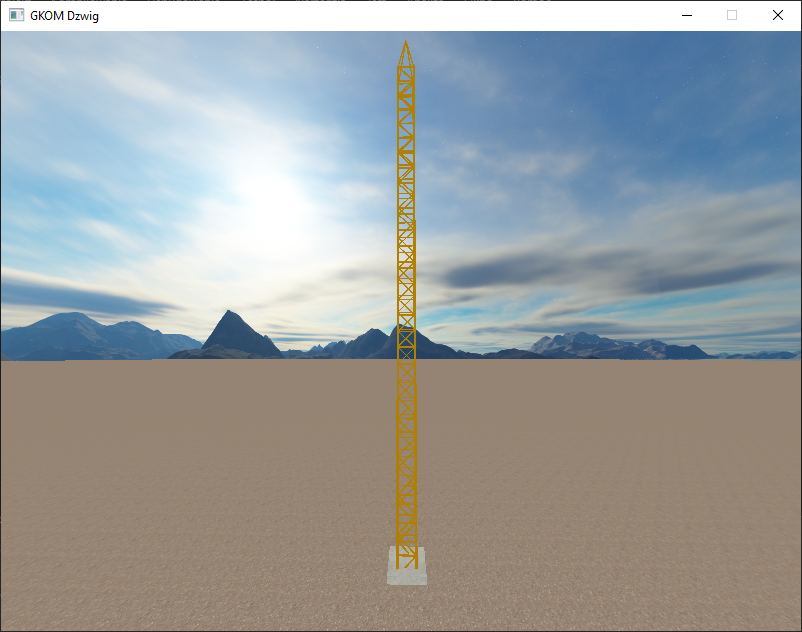
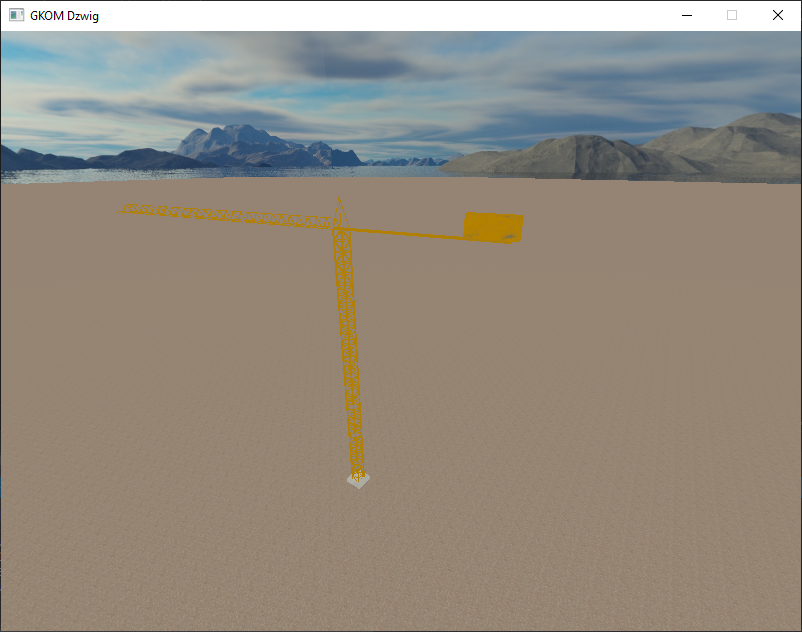
Model cd.

diff --git a/Dzwig/CraneTop.cpp b/Dzwig/CraneTop.cpp
@@ -1,0 +1,81 @@
+#include "CraneTop.h"
+
+CraneTop::CraneTop(std::string textureFileName)
+{
+	segment.setTexture(textureFileName);
+
+	glGenVertexArrays(1, &VAO);
+	glGenBuffers(1, &VBO);
+	glBindVertexArray(VAO);
+	glBindBuffer(GL_ARRAY_BUFFER, VBO);
+	glBufferData(
+		GL_ARRAY_BUFFER,
+		segment.getVertexTextureArraySize() * sizeof(GLfloat),
+		segment.getVertexTextureArrayPointer(),
+		GL_STATIC_DRAW);
+
+	// position
+	glVertexAttribPointer(0, 3, GL_FLOAT, GL_FALSE, 5 * sizeof(GLfloat), (void*)0);
+	glEnableVertexAttribArray(0);
+	// texture
+	glVertexAttribPointer(1, 2, GL_FLOAT, GL_FALSE, 5 * sizeof(GLfloat), (void*)(3 * sizeof(float)));
+	glEnableVertexAttribArray(1);
+
+	glBindVertexArray(0);
+
+
+	segment.setAll(-length, posy, -width/2, length + width/2, segmentScale, segmentScale);
+	segmentTrans.push_back(segment.getModelMatrix());
+	segment.setAll(-length , posy, width / 2, length + width / 2, segmentScale, segmentScale);
+	segmentTrans.push_back(segment.getModelMatrix());
+	segment.setAll(-length, posy+width*glm::sqrt(3)/2, 0, length - width / 2, segmentScale, segmentScale);
+	segmentTrans.push_back(segment.getModelMatrix());
+
+	for (int i = 0; i < 1 + 2*length / width; ++i)
+	{
+		segment.setAll(-width/2 - i*width, posy, 0, segmentScale, segmentScale, width/2);
+		segmentTrans.push_back(segment.getModelMatrix());
+	}
+
+	for (int i = 0; i < 2 * length / width; ++i)
+	{
+		segment.setAll(-width / 2 - i * width, posy+ width*sqrt(3)/4, width/4, segmentScale, segmentScale, width / 2,1,0,0,60);
+		segmentTrans.push_back(segment.getModelMatrix());
+	}
+	for (int i = 0; i < 2 * length / width; ++i)
+	{
+		segment.setAll(-width / 2 - i * width, posy + width * sqrt(3) / 4, -width / 4, segmentScale, segmentScale, width / 2, 1, 0, 0, 120);
+		segmentTrans.push_back(segment.getModelMatrix());
+	}
+
+	segment.setAll(length/2 - width/2, posy, 0, length/2, segmentScale, width/2);
+	segmentTrans.push_back(segment.getModelMatrix());
+
+	//segment.setAll( - 2 * length/width, posy, width / 4, width*sqrt(3)/2, segmentScale, segmentScale, 0, 1, 0, 30);
+	segment.setAll(-2 * length / width, posy, width / 2, width*sqrt(3) / 4, segmentScale, segmentScale,0,1,0,30);
+	//segment.setRotation2(0, 0, 1, 30);
+	segmentTrans.push_back(segment.getModelMatrix());
+
+	segment.setAll(length-width*2, posy+width, 0, 2 * width, width*sqrt(3)/2, width / 2);
+	segmentTrans.push_back(segment.getModelMatrix());
+}
+
+void CraneTop::draw(ShaderProgram * s, Camera * c, GLuint w, GLuint h)
+{
+	glm::mat4 trans;
+	glm::mat4 view = c->getWorldToViewMatrix();
+	glm::mat4 projection = glm::perspective(glm::radians(c->getFOV()), w*1.0f / h, 0.1f, 1000.0f);
+
+	glBindVertexArray(VAO);
+	glActiveTexture(GL_TEXTURE0);
+	glBindTexture(GL_TEXTURE_2D, segment.getTexture().getTextureID());
+
+	for (int i = 0; i < segmentTrans.size(); ++i)
+	{
+		trans = projection * view * glm::rotate(glm::mat4(1.0f), (GLfloat)glfwGetTime(), glm::vec3(0, 1, 0)) * segmentTrans[i];
+		glUniformMatrix4fv(glGetUniformLocation(s->get_programID(), "transform"), 1, GL_FALSE, &trans[0][0]);
+		glDrawArrays(GL_TRIANGLES, 0, 36);
+	}
+}
+
+

diff --git a/Dzwig/CraneTop.h b/Dzwig/CraneTop.h
@@ -1,0 +1,33 @@
+#pragma once
+#include "Cuboid.h"
+#include <GL/glew.h>
+#include "ShaderProgram.h"
+#include <GLFW/glfw3.h>
+#include <SOIL.h>
+#include <iostream>
+#include <string>
+using namespace std;
+#include <glm/glm.hpp>
+#include <glm/gtc/matrix_transform.hpp>
+#include <glm/gtc/type_ptr.hpp>
+#include "Window.h"
+#include "Camera.h"
+
+class CraneTop
+{
+	Cuboid segment;
+	GLuint VAO, VBO;
+	std::vector<glm::mat4> segmentTrans;
+
+	GLfloat length = 15.0f;
+	GLfloat posy = 30.0f;
+	GLfloat width = 1.0f;
+	GLfloat segmentScale = 0.03f;
+
+public:
+
+	CraneTop(std::string textureFileName);
+
+	void draw(ShaderProgram* s, Camera* c, GLuint w, GLuint h);
+};
+

diff --git a/Dzwig/Window.cpp b/Dzwig/Window.cpp
@@ -14,6 +14,7 @@
 #include "Cuboid.h"
 #include "CraneTower.h"
 #include "CraneBase.h"
+#include "CraneTop.h"
 
 using namespace std;
 
@@ -197,6 +198,7 @@ int Window::mainLoop()
 		unsigned int lightVAO;
 		CraneTower tower("metal.png");
 		CraneBase base(1.5f,.2f,"concrete.jpg");
+		CraneTop top("metal.png");
 
 
 		glGenVertexArrays(1, &lightVAO);
@@ -262,6 +264,7 @@ int Window::mainLoop()
 
 			tower.draw(&shaderProgram, camera, this->width, this->height);
 			base.draw(&shaderProgram, camera, this->width, this->height);
+			top.draw(&shaderProgram, camera, this->width, this->height);
 
 
 
